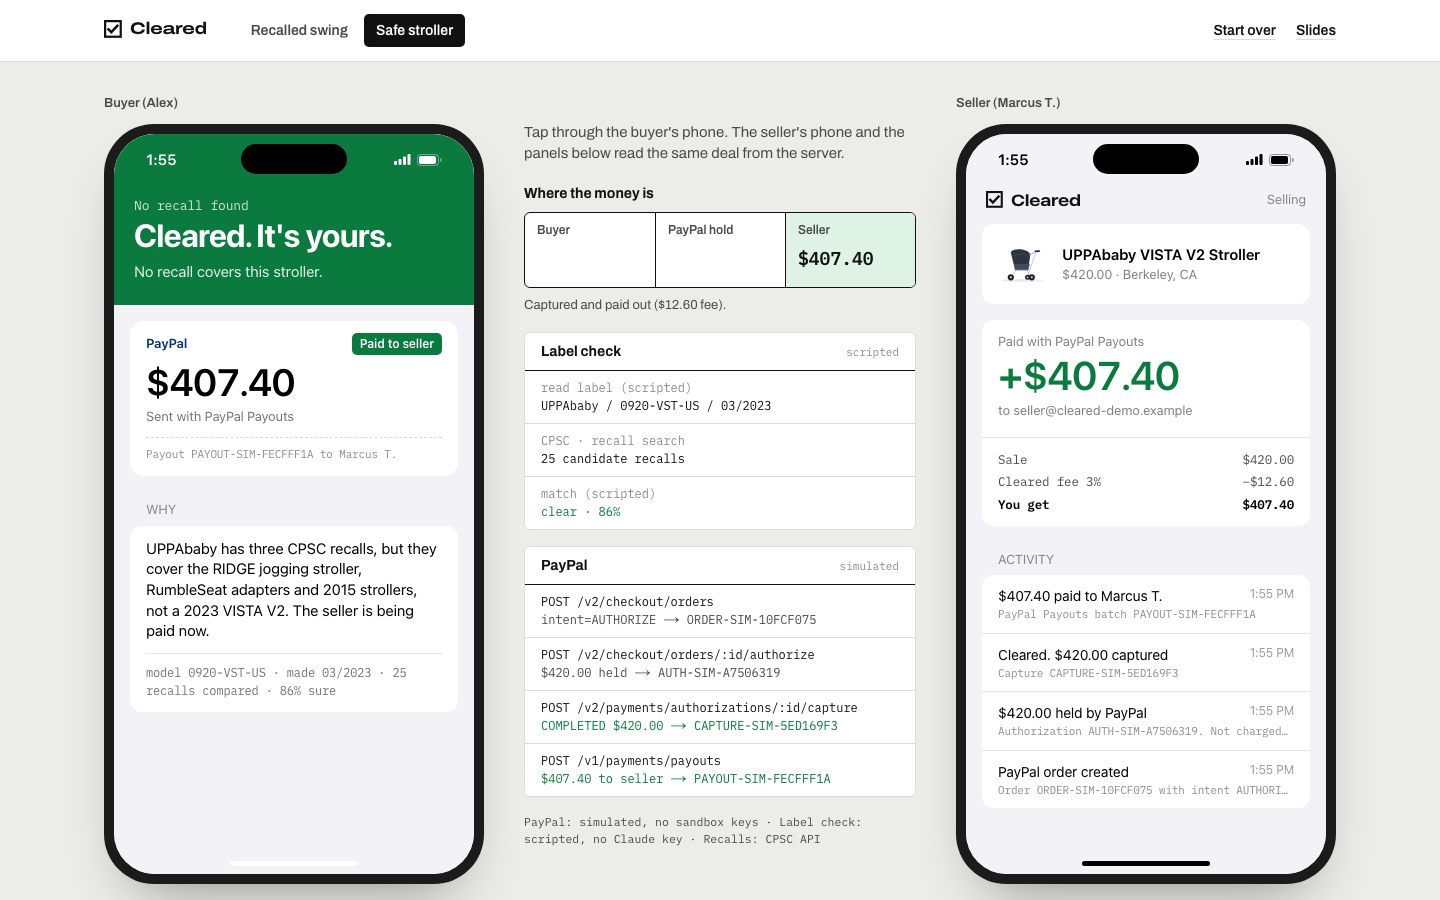
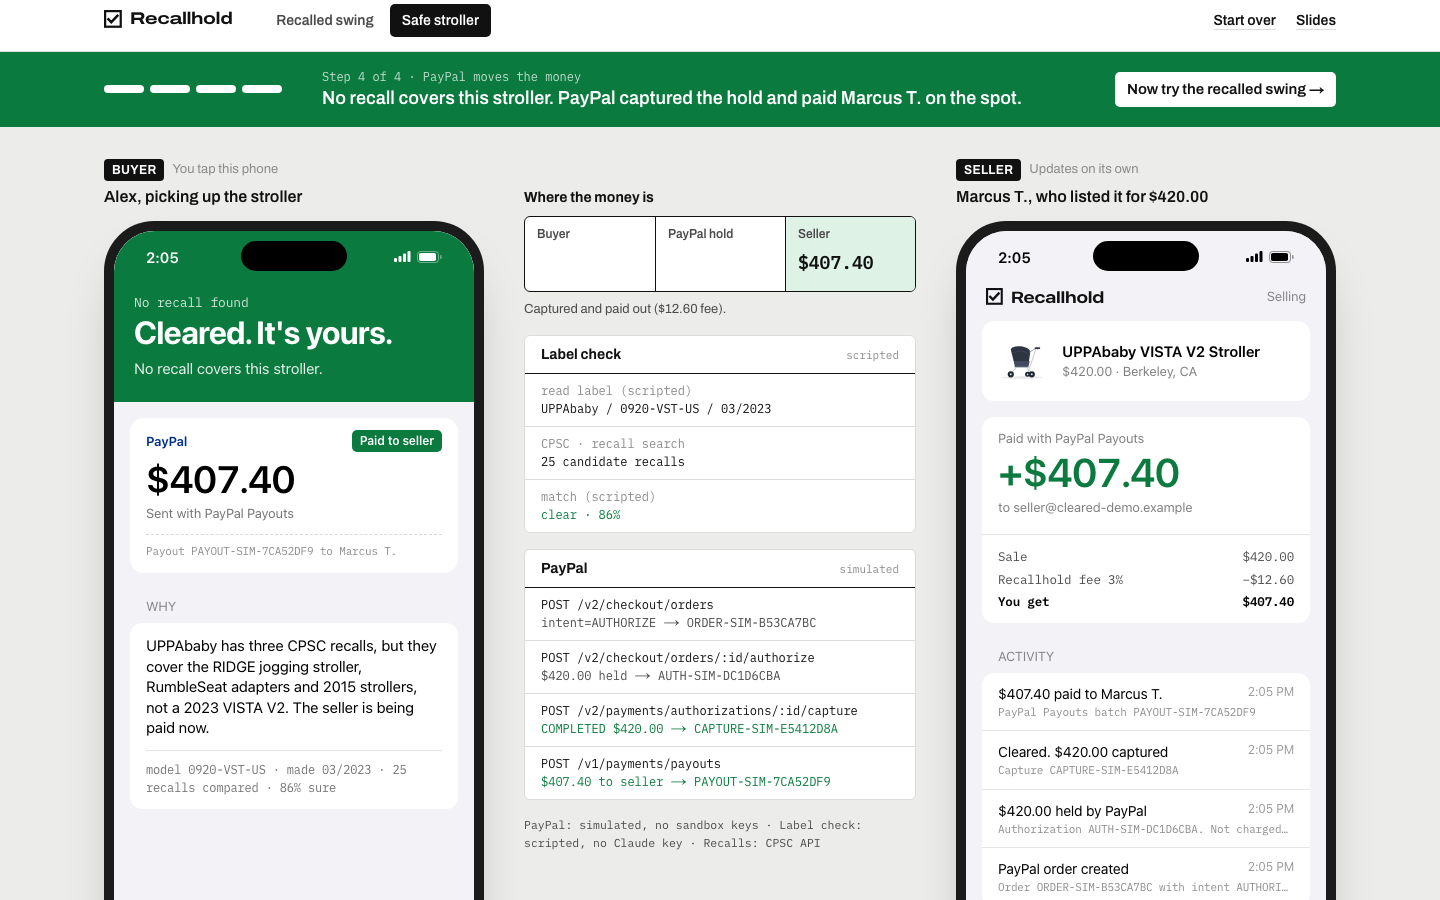
Rename to Recallhold and explain the problem on the landing page
New headline, a section with sourced numbers on recalled products being resold (CPSC, Kids In Danger, Consumer Reports, ABC7), a before/after of the same Marketplace sale, and a note that the check covers any CPSC product, not only baby gear.

diff --git a/src/app/landing.tsx b/src/app/landing.tsx
@@ -72,7 +72,7 @@ const QUESTIONS = [
   ],
   [
     "What if the photo is blurry?",
-    "Nothing moves. The hold stays in place and you're asked for another photo. Cleared won't guess a model number.",
+    "Nothing moves. The hold stays in place and you're asked for another photo. Recallhold won't guess a model number.",
   ],
   [
     "What if the seller doesn't show up?",
@@ -127,14 +127,13 @@ export function Landing({ listings }: { listings: Listing[] }) {
       <section className="bg-yellow">
         <div className="mx-auto grid max-w-[1200px] gap-12 px-6 pb-20 pt-10 lg:grid-cols-[1.15fr_1fr] lg:pt-16">
           <div>
-            <h1 className="wide max-w-[680px] text-[48px] font-extrabold leading-[0.98] tracking-[-0.02em] sm:text-[64px]">
-              Check the sticker before you pay.
+            <p className="font-mono text-[14px]">Secondhand sales have no recall check.</p>
+            <h1 className="wide mt-3 max-w-[680px] text-[44px] font-extrabold leading-[0.98] tracking-[-0.02em] sm:text-[58px]">
+              Recalled products get resold. We hold the payment until they don&apos;t.
             </h1>
-            <p className="mt-7 max-w-[540px] text-[19px] leading-[1.5]">
-              Cleared is a payment link for secondhand baby gear. The
-              buyer&apos;s money sits on a PayPal hold until they photograph the
-              product label at pickup. If that model is under a CPSC recall, the
-              hold is cancelled and nobody pays.
+            <p className="mt-7 max-w-[560px] text-[19px] leading-[1.5]">
+              Selling a recalled product is illegal in the U.S., but nobody checks at a Marketplace pickup. Recallhold puts the buyer&apos;s PayPal payment on hold, has Claude read the product&apos;s model sticker, and checks it against every CPSC recall.{" "}
+              <b>Recalled: the hold is cancelled and nobody pays. Safe: the seller is paid on the spot.</b>
             </p>
             <div className="mt-9 flex flex-wrap gap-3">
               <Link
@@ -182,6 +181,8 @@ export function Landing({ listings }: { listings: Listing[] }) {
         </div>
       </section>
       <div className="hazard h-3" />
+
+      <ProblemSection />
 
       <section className="mx-auto max-w-[1200px] px-6 py-20">
         <div className="grid gap-10 lg:grid-cols-[1fr_1.4fr]">
@@ -300,7 +301,7 @@ export function Landing({ listings }: { listings: Listing[] }) {
           </table>
           <p className="mt-4 max-w-[760px] text-[14px] text-ink-2">
             PayPal does the holding, capturing, voiding and paying out (Orders
-            v2 with intent=AUTHORIZE, Authorizations, Payouts). Cleared decides
+            v2 with intent=AUTHORIZE, Authorizations, Payouts). Recallhold decides
             which of those to call, based on what&apos;s printed on the label.
           </p>
         </div>
@@ -373,5 +374,93 @@ export function Landing({ listings }: { listings: Listing[] }) {
         </div>
       </footer>
     </main>
+  );
+}
+
+// Sourced facts only. Each links to where the number comes from.
+const FACTS = [
+  {
+    big: "Illegal",
+    text: "to sell a recalled product in the U.S., secondhand included (Consumer Product Safety Act, Section 19).",
+    src: "CPSC",
+    href: "https://www.cpsc.gov/Business--Manufacturing/Business-Education/ResaleThrift-Stores-Information-Center/Stop-Online-Sale-of-Recalled-Products",
+  },
+  {
+    big: "Hundreds",
+    text: "of recalled Rock 'n Play sleepers sold every month on Facebook Marketplace and other secondhand sites, the CPSC chair said in 2023. 4.7 million were recalled.",
+    src: "ABC7 / CPSC",
+    href: "https://abc7ny.com/post/cpsc-calls-on-meta-mattel-to-get-fisher-price-rock-n-play-sleeper/13118930/",
+  },
+  {
+    big: "22%",
+    text: "of recalled children's products are returned, replaced or repaired. The rest stay in homes, or get sold on.",
+    src: "Kids In Danger, 2024",
+    href: "https://6abc.com/post/kids-in-danger-recall-report-children-product-safety/15296263/",
+  },
+  {
+    big: "50,000+",
+    text: "recalled or illegal products CPSC asked online sites to take down in 2023. Takedowns happen after the listing is live.",
+    src: "Consumer Reports",
+    href: "https://advocacy.consumerreports.org/press_release/amazon-facebook-marketplace-and-other-online-marketplaces-might-be-off-the-hook-for-dangerous-products-sold-on-their-platforms-consumer-reports-is-working-to-change-that",
+  },
+];
+
+function ProblemSection() {
+  return (
+    <section className="bg-ink text-white">
+      <div className="mx-auto max-w-[1200px] px-6 py-20">
+        <h2 className="wide max-w-[820px] text-[34px] font-bold leading-[1.05] tracking-tight">
+          The problem: a recall notice reaches the first owner. It doesn&apos;t follow the product.
+        </h2>
+        <div className="mt-10 grid border-t-2 border-yellow sm:grid-cols-2 lg:grid-cols-4">
+          {FACTS.map((f, i) => (
+            <div key={f.big} className={clsx("border-b border-white/15 py-6 pr-6 lg:border-b-0", i > 0 && "lg:border-l lg:pl-6")}>
+              <p className="wide text-[40px] font-extrabold leading-none text-yellow">{f.big}</p>
+              <p className="mt-3 text-[15px] leading-[1.5] text-white/85">{f.text}</p>
+              <a href={f.href} target="_blank" rel="noreferrer" className="mt-3 inline-block font-mono text-[12px] text-white/50 underline underline-offset-2 hover:text-white">
+                Source: {f.src}
+              </a>
+            </div>
+          ))}
+        </div>
+
+        <div className="mt-14 grid gap-4 lg:grid-cols-2">
+          <Flow
+            title="A Marketplace sale today"
+            tone="bad"
+            steps={["Listing: \"Baby swing, $65\"", "Cash or instant transfer at pickup", "Nobody reads the model sticker", "A recalled swing goes home with a newborn"]}
+          />
+          <Flow
+            title="The same sale with Recallhold"
+            tone="good"
+            steps={["Buyer pays: PayPal holds $65, charges nothing", "At pickup: photo of the model sticker", "Claude reads DRG43, CPSC says recall 25009", "PayPal voids the hold. $0 charged, swing stays."]}
+          />
+        </div>
+
+        <p className="mt-10 max-w-[820px] text-[16px] leading-[1.6] text-white/75">
+          It isn&apos;t only baby gear. CPSC covers{" "}
+          <a className="underline" href="https://business.cpsc.gov/recalls/cpsc.html" target="_blank" rel="noreferrer">
+            more than 15,000 kinds of consumer products
+          </a>
+          : space heaters, e-bikes, dressers, helmets, toys. Recallhold checks anything in that database. The demo uses baby gear because that&apos;s where a missed recall does the most harm. Vehicles and car seats fall under NHTSA, which isn&apos;t connected yet.
+        </p>
+      </div>
+    </section>
+  );
+}
+
+function Flow({ title, steps, tone }: { title: string; steps: string[]; tone: "good" | "bad" }) {
+  return (
+    <div className={clsx("rounded-[6px] p-5", tone === "bad" ? "bg-white/[0.06]" : "bg-yellow text-ink")}>
+      <p className="text-[14px] font-bold">{title}</p>
+      <ol className="mt-3 space-y-2">
+        {steps.map((st, i) => (
+          <li key={st} className="flex items-start gap-3 text-[15px]">
+            <span className={clsx("mt-0.5 grid size-6 shrink-0 place-items-center rounded-full font-mono text-[12px] font-semibold", tone === "bad" ? "bg-white/15" : "bg-ink text-yellow")}>{i + 1}</span>
+            <span className={clsx(i === steps.length - 1 && "font-semibold", i === steps.length - 1 && tone === "bad" && "text-[#ff8a80]")}>{st}</span>
+          </li>
+        ))}
+      </ol>
+    </div>
   );
 }

diff --git a/src/lib/verifier.ts b/src/lib/verifier.ts
@@ -148,7 +148,7 @@ function unreadableVerdict(): Verdict {
     headline: "We couldn't read that label",
     explanation: "The photo is too blurry to read the model number. Your money is still on hold, so nothing has been paid. Try another photo in better light.",
     matchedRecall: null,
-    callScript: "Hi, it's Cleared. We couldn't quite read that label, so your money is still safely on hold. Try one more photo in better light and we'll check it right away.",
+    callScript: "Hi, it's Recallhold. We couldn't quite read that label, so your money is still safely on hold. Try one more photo in better light and we'll check it right away.",
     saferAlternatives: ["Retake the photo closer to the label", "Ask the seller where the model sticker is"],
   };
 }
@@ -190,7 +190,7 @@ async function scriptedVerify(onProgress: VerifyProgress, sampleHint?: string) {
           ? { recallNumber: match.recallNumber, title: match.title, date: match.date, url: match.url, hazard: match.hazard, remedy: match.remedy, image: match.image }
           : null,
         callScript:
-          "Hi, it's Cleared calling about the swing you just scanned. Model DRG43 is part of an active Fisher-Price recall, so we released your payment and you won't be charged. If you still need a swing, I've sent you a few safer options.",
+          "Hi, it's Recallhold calling about the swing you just scanned. Model DRG43 is part of an active Fisher-Price recall, so we released your payment and you won't be charged. If you still need a swing, I've sent you a few safer options.",
         saferAlternatives: ["A Snuga Swing with the headrest and insert removed per the recall notice", "A swing model not listed in recall 25009", "A bouncer that meets the current federal infant-sleep standard"],
       },
     };
@@ -221,7 +221,7 @@ async function scriptedVerify(onProgress: VerifyProgress, sampleHint?: string) {
         explanation:
           "UPPAbaby has three CPSC recalls, but they cover the RIDGE jogging stroller, RumbleSeat adapters and 2015 strollers, not a 2023 VISTA V2. The seller is being paid now.",
         matchedRecall: null,
-        callScript: "Good news from Cleared: we found no recall for this VISTA V2, so the seller has been paid. Enjoy the walks!",
+        callScript: "Good news from Recallhold: we found no recall for this VISTA V2, so the seller has been paid. Enjoy the walks!",
         saferAlternatives: [],
       },
     };

diff --git a/src/components/call-overlay.tsx b/src/components/call-overlay.tsx
@@ -14,9 +14,9 @@ function pickVoice() {
   return voices.find((v) => v.lang.startsWith("en-US")) ?? voices[0];
 }
 
-// A phone call from Cleared that reads the verdict aloud with captions. The
+// A phone call from Recallhold that reads the verdict aloud with captions. The
 // buyer is standing in a driveway holding the item, not reading a screen.
-export function CallOverlay({ open, script, caller = "Cleared", onClose }: { open: boolean; script: string; caller?: string; onClose: () => void }) {
+export function CallOverlay({ open, script, caller = "Recallhold", onClose }: { open: boolean; script: string; caller?: string; onClose: () => void }) {
   // Mounting the screen only while open means every call starts fresh.
   return <AnimatePresence>{open && <CallScreen key="call" script={script} caller={caller} onClose={onClose} />}</AnimatePresence>;
 }

diff --git a/src/app/layout.tsx b/src/app/layout.tsx
@@ -6,9 +6,9 @@ const archivo = Archivo({ variable: "--font-archivo", subsets: ["latin"], axes: 
 const plexMono = IBM_Plex_Mono({ variable: "--font-plex-mono", subsets: ["latin"], weight: ["400", "500", "600"] });
 
 export const metadata: Metadata = {
-  title: "Cleared: check the sticker before you pay",
+  title: "Recallhold: hold the payment until the recall check clears",
   description:
-    "Pay for secondhand baby gear with a PayPal hold. At pickup, photograph the label; Cleared checks it against CPSC recalls before any money moves.",
+    "Pay for secondhand baby gear with a PayPal hold. At pickup, photograph the label; Recallhold checks it against CPSC recalls before any money moves.",
 };
 
 export const viewport: Viewport = { themeColor: "#ffd400" };

diff --git a/src/components/seller-app.tsx b/src/components/seller-app.tsx
@@ -102,7 +102,7 @@ export function SellerApp({ listing, deal }: { listing: Listing; deal: Deal | nu
               </div>
               <div className="border-t border-black/10 px-4 py-2.5 font-mono text-[12.5px] text-black/70">
                 <Line k="Sale" v={usd(deal!.amount)} />
-                <Line k="Cleared fee 3%" v={`−${usd(deal!.amount - payout)}`} />
+                <Line k="Recallhold fee 3%" v={`−${usd(deal!.amount - payout)}`} />
                 <Line k="You get" v={usd(payout)} bold />
               </div>
             </div>

diff --git a/src/components/ui.tsx b/src/components/ui.tsx
@@ -13,7 +13,7 @@ export function Logo({ className, invert = false }: { className?: string; invert
         <rect x="1.25" y="1.25" width="17.5" height="17.5" stroke="currentColor" strokeWidth="2.5" />
         <path d="M5 10.5l3.2 3.2L15 6.5" stroke="currentColor" strokeWidth="2.8" strokeLinecap="square" />
       </svg>
-      <span className="wide tracking-tight">Cleared</span>
+      <span className="wide tracking-tight">Recallhold</span>
     </span>
   );
 }

diff --git a/src/app/pitch/page.tsx b/src/app/pitch/page.tsx
@@ -229,7 +229,7 @@ export default function Pitch() {
         )}
       </AnimatePresence>
       <div className={clsx("absolute inset-x-16 bottom-8 flex justify-between font-mono text-[13px]", slide?.tone === "ink" ? "text-white/50" : "text-ink/50")}>
-        <span>Cleared · PayPal AI Hackathon</span>
+        <span>Recallhold · PayPal AI Hackathon</span>
         <span>
           {(i ?? 0) + 1} / {SLIDES.length}
         </span>

diff --git a/src/app/api/deals/[id]/check/route.ts b/src/app/api/deals/[id]/check/route.ts
@@ -65,7 +65,7 @@ export async function POST(req: Request, ctx: RouteContext<"/api/deals/[id]/chec
             dealId: deal.id,
             email: listing.sellerPaypalEmail,
             amount: payoutAmount,
-            note: `${listing.title} passed its Cleared safety check.`,
+            note: `${listing.title} passed its Recallhold recall check.`,
           });
           const updated = await updateDeal(
             id,

diff --git a/src/app/api/deals/route.ts b/src/app/api/deals/route.ts
@@ -26,7 +26,7 @@ export async function POST(req: Request) {
     const order = await createHoldOrder({
       dealId: deal.id,
       amount: listing.price,
-      description: `Held by Cleared until safety check: ${listing.title}`,
+      description: `Held by Recallhold until safety check: ${listing.title}`,
     });
     await updateDeal(deal.id, { paypalOrderId: order.id }, {
       kind: "info",

diff --git a/src/app/globals.css b/src/app/globals.css
@@ -1,6 +1,6 @@
 @import "tailwindcss";
 
-/* Cleared borrows from the thing it checks: printed safety labels and recall
+/* Recallhold borrows from the thing it checks: printed safety labels and recall
    notices. Flat color, black ink, one loud yellow, no gradients. */
 @theme inline {
   --font-sans: var(--font-archivo), ui-sans-serif, system-ui, sans-serif;

diff --git a/src/lib/paypal.ts b/src/lib/paypal.ts
@@ -66,7 +66,7 @@ export async function createHoldOrder(opts: { dealId: string; amount: number; de
       payment_source: {
         paypal: {
           experience_context: {
-            brand_name: "Cleared",
+            brand_name: "Recallhold",
             user_action: "CONTINUE",
             shipping_preference: "NO_SHIPPING",
           },

diff --git a/README.md b/README.md
@@ -1,8 +1,8 @@
-# Cleared
+# Recallhold
 
 **Check the sticker before you pay.**
 
-Cleared is a payment link for secondhand baby gear. The buyer pays with PayPal, but the money is only put on hold. At pickup, the buyer photographs the product's model sticker. Claude reads the brand, model number and manufacture date, and Cleared compares them against the U.S. Consumer Product Safety Commission (CPSC) recall database. Only then does any money move.
+Recallhold is a payment link for secondhand baby gear. The buyer pays with PayPal, but the money is only put on hold. At pickup, the buyer photographs the product's model sticker. Claude reads the brand, model number and manufacture date, and Cleared compares them against the U.S. Consumer Product Safety Commission (CPSC) recall database. Only then does any money move.
 
 | Result | What PayPal does | Buyer pays | Seller gets |
 | --- | --- | --- | --- |
@@ -10,13 +10,13 @@ Cleared is a payment link for secondhand baby gear. The buyer pays with PayPal, 
 | A recall covers this model | Voids the hold | $0 | The manufacturer's remedy from the recall notice |
 | Label can't be read | Keeps the hold | Nothing yet | Nothing yet; the buyer takes another photo |
 
-![Cleared landing page](docs/landing.png)
+![Recallhold landing page](docs/landing.png)
 
 ## Why
 
 In October 2024 Fisher-Price recalled more than 2 million Snuga infant swings for a suffocation hazard ([CPSC recall 25009](https://www.cpsc.gov/Recalls/2025/Fisher-Price-Recalls-More-than-2-Million-Snuga-Infant-Swings-Due-to-Suffocation-Hazard-After-5-Deaths-Reported)). The recall covers 21 model numbers that look nearly identical. The only way to tell whether a swing is one of them is the sticker under the motor housing. In a secondhand sale nobody reads that sticker before the money changes hands, and cash can't be taken back afterwards.
 
-PayPal can authorize a payment without capturing it. Cleared uses that window to run the check.
+PayPal can authorize a payment without capturing it. Recallhold uses that window to run the check.
 
 ## The demo
 
@@ -100,7 +100,7 @@ Sales are stored in `.data/db.json`. Delete it to start fresh.
 ```mermaid
 sequenceDiagram
   participant B as Buyer's phone
-  participant C as Cleared (Next.js)
+  participant C as Recallhold (Next.js)
   participant P as PayPal
   participant A as Claude
   participant G as CPSC Recall API
